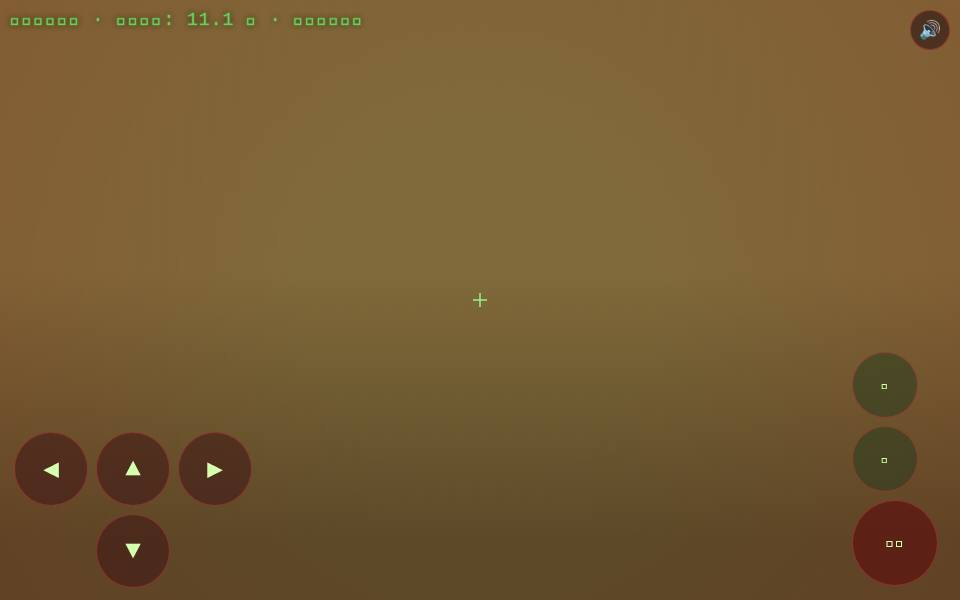
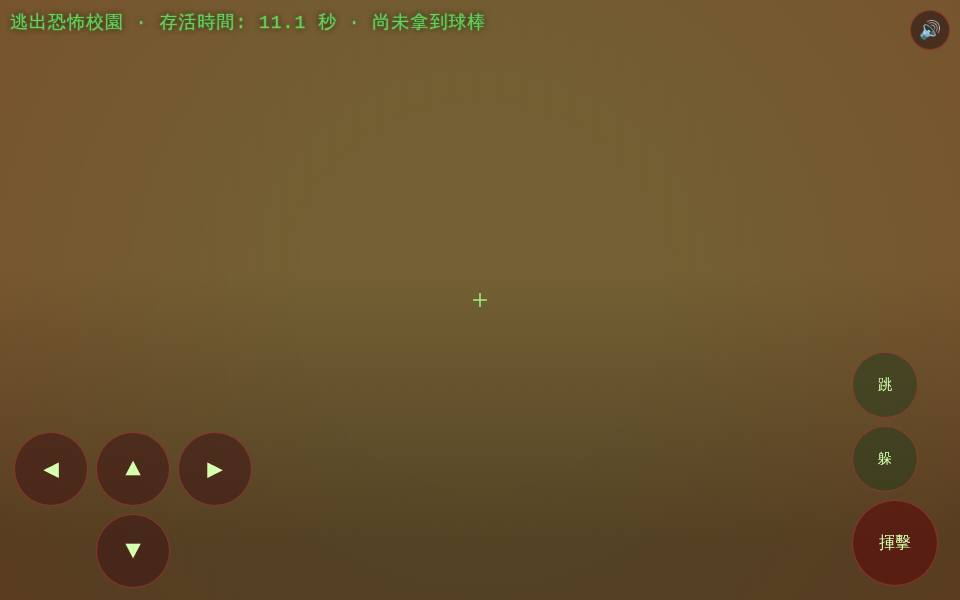
恐怖校園追逐 v4 最終版：agent收尾修正（重生朝向自動對準走廊開口、檔尾修正）
Claude-Session: https://claude.ai/code/session_012aVhBduPByxrnKLqMDRH5h

diff --git a/pro/games/恐怖校園追逐.html b/pro/games/恐怖校園追逐.html
@@ -235,8 +235,15 @@
     border-radius: 4px;
     padding: 3px;
   }
-  #minimap { display: block; }
+  #minimap { display: block; max-width: 90px; height: auto; }
   .icon-inline { vertical-align: -3px; width: 16px; height: 16px; display: inline-block; }
+  @media (max-width: 480px) {
+    #hud { font-size: 12px; max-width: 50vw; top: 62px; }
+    #minimapWrap { top: 6px; right: 58px; }
+    #minimap { max-width: 60px; }
+    #hintOverlay { top: 112px; font-size: 13px; }
+    #pauseBtn { right: 62px; }
+  }
   #touchControls {
     position: fixed;
     left: 0; right: 0; bottom: 0;